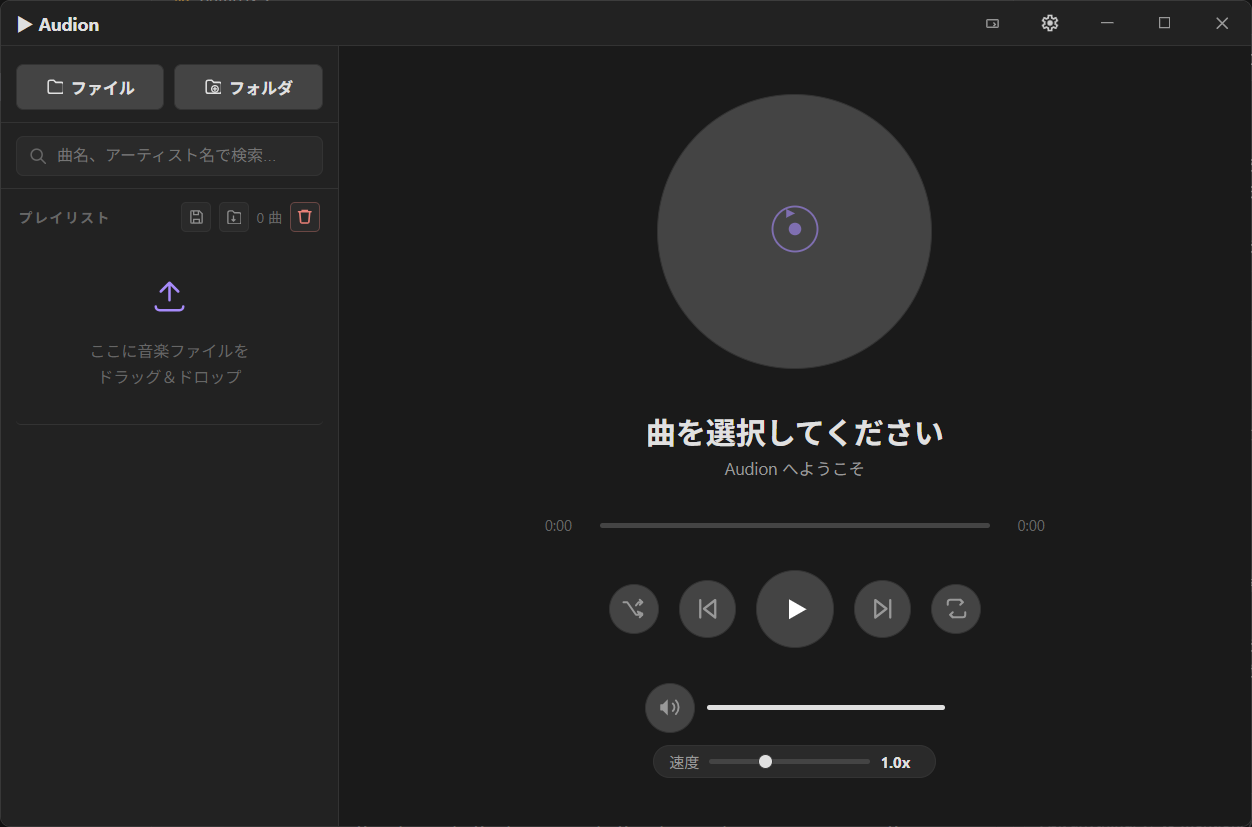
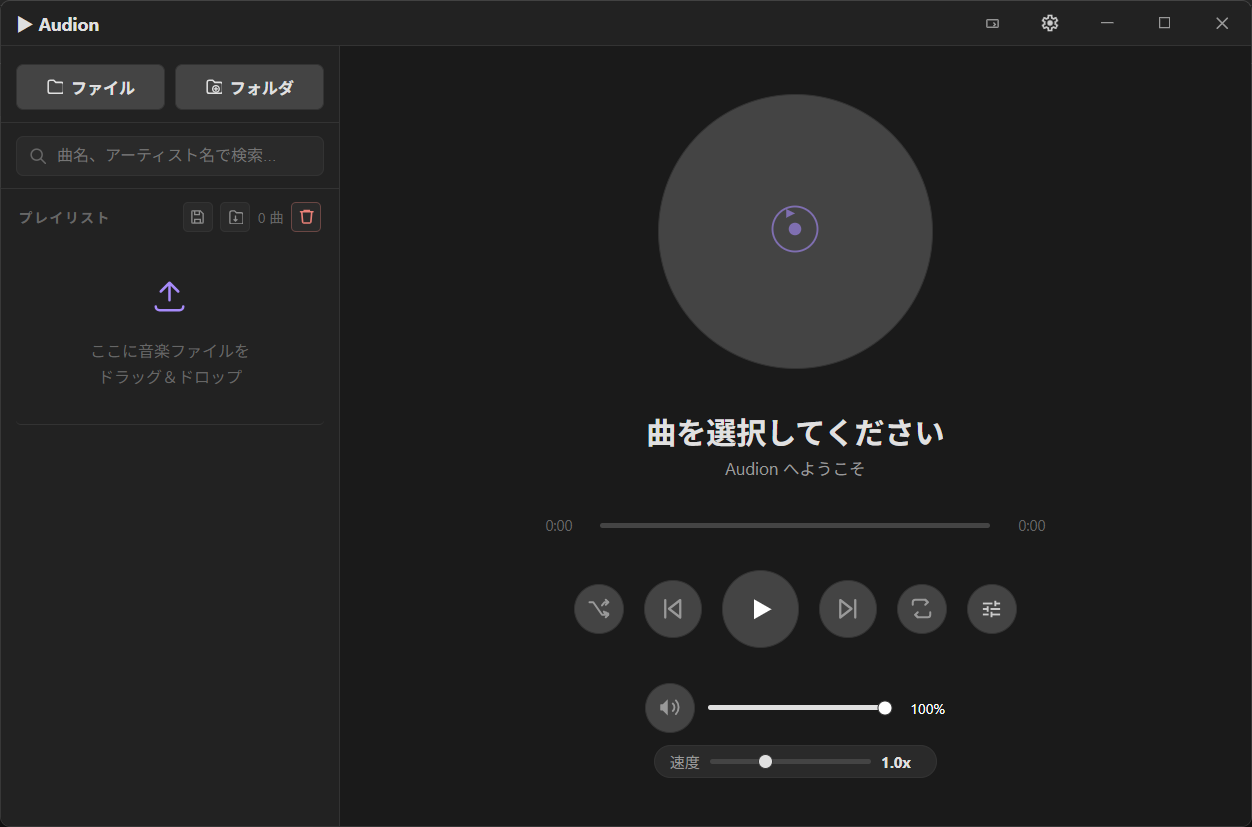
READMEを更新

diff --git a/README.md b/README.md
@@ -1,7 +1,7 @@
 # Audion
 
 <div align="center">
-  <img src="img\app_icon.jpg" width="128" height="128" alt="Audion Icon">
+  <img src="img/app_icon.jpg" width="128" height="128" alt="Audion Icon">
   <br>
   <p><strong>Tauri Base Music Player</strong></p>
 
@@ -13,59 +13,79 @@
   <br>
   ![Downloads (Latest)](https://img.shields.io/github/downloads/sagami121/Audion/latest/total?style=for-the-badge&color=8A2BE2&label=latest%20downloads)
   ![Downloads (Total)](https://img.shields.io/github/downloads/sagami121/Audion/total?style=for-the-badge&color=9370DB&label=total%20downloads)
-  
 </div>
 
 ---
 
-## 本ソフトのスクリーンショット
+## スクリーンショット
+
 <div align="center">
   <h3>メイン画面</h3>
-  <img src="docs/1.png" width="800" alt="ホーム" style="border-radius: 8px; box-shadow: 0 4px 12px rgba(0,0,0,0.15); margin-bottom: 20px;">
+  <img src="docs/1.png" width="800" alt="メイン画面" style="border-radius: 8px; box-shadow: 0 4px 12px rgba(0,0,0,0.15); margin-bottom: 20px;">
   <br>
-  
+
   <h3>設定画面</h3>
-  <img src="docs/2.png" width="400" alt="設定" style="border-radius: 8px; box-shadow: 0 4px 12px rgba(0,0,0,0.15); margin-bottom: 20px;">
+  <img src="docs/2.png" width="400" alt="設定画面" style="border-radius: 8px; box-shadow: 0 4px 12px rgba(0,0,0,0.15); margin-bottom: 20px;">
   <br>
-  
+
   <h3>フィードバック画面</h3>
-  <img src="docs/3.png" width="400" alt="フィードバック" style="border-radius: 8px; box-shadow: 0 4px 12px rgba(0,0,0,0.15); margin-bottom: 20px;">
+  <img src="docs/3.png" width="400" alt="フィードバック画面" style="border-radius: 8px; box-shadow: 0 4px 12px rgba(0,0,0,0.15); margin-bottom: 20px;">
+
+  <h3>イコライザー</h3>
+  <img src="docs/4.png" width="400" alt="イコライザー" style="border-radius: 8px; box-shadow: 0 4px 12px rgba(0,0,0,0.15); margin-bottom: 20px;">
+
+  <h3>コンプレッサー</h3>
+  <img src="docs/5.png" width="400" alt="コンプレッサー" style="border-radius: 8px; box-shadow: 0 4px 12px rgba(0,0,0,0.15); margin-bottom: 20px;">
+
+  <h3>アプリの更新通知</h3>
+  <img src="docs/6.png" width="400" alt="アプリの更新通知" style="border-radius: 8px; box-shadow: 0 4px 12px rgba(0,0,0,0.15); margin-bottom: 20px;">
 </div>
 
 ---
-# Audionについて
--   **幅広いフォーマット対応**:
-    <p>
-      <img src="https://img.shields.io/badge/MP3-444?style=flat-square">
-      <img src="https://img.shields.io/badge/WAV-444?style=flat-square">
-      <img src="https://img.shields.io/badge/FLAC-444?style=flat-square">
-      <img src="https://img.shields.io/badge/M4A-444?style=flat-square">
-      <img src="https://img.shields.io/badge/OGG-444?style=flat-square">
-      <img src="https://img.shields.io/badge/OPUS-444?style=flat-square">
-      <img src="https://img.shields.io/badge/AIFF-444?style=flat-square">
-    </p>
+
+## Audionについて
+
+Audionは、Tauri v2 + Reactで作られたWindows向けの軽量音楽プレイヤーです。
+
+- 対応フォーマット:
+  <p>
+    <img src="https://img.shields.io/badge/MP3-444?style=flat-square">
+    <img src="https://img.shields.io/badge/WAV-444?style=flat-square">
+    <img src="https://img.shields.io/badge/FLAC-444?style=flat-square">
+    <img src="https://img.shields.io/badge/M4A-444?style=flat-square">
+    <img src="https://img.shields.io/badge/OGG-444?style=flat-square">
+    <img src="https://img.shields.io/badge/OPUS-444?style=flat-square">
+    <img src="https://img.shields.io/badge/AIFF-444?style=flat-square">
+  </p>
+- インストーラー配布: `.msi`
+- ライセンス: [MIT License](LICENSE)
+
 ---
 
 ## セットアップ
 
-### 開発環境の準備
-1.  [Rust](https://www.rust-lang.org/ja/tools/install) をインストール
-2.  [Node.js](https://nodejs.org/) をインストール
-3.  プロジェクトをクローンまたはダウンロード
+### 前提環境
 
-### 実行・ビルド
+1. [Rust](https://www.rust-lang.org/ja/tools/install) をインストール
+2. [Node.js](https://nodejs.org/) をインストール
+3. このリポジトリをクローン
+
+### 開発・ビルド
+
 ```bash
-# 依存関係のインストール
+# 依存関係をインストール
 npm install
 
 # 開発モードで起動
 npm run tauri dev
 
-# インストーラー (.msi) の作成
+# 本番ビルド (.msi) を作成
 npm run tauri build
 ```
 
 ---
 
-## ライセンス
-本ソフトウェアは [MIT License](LICENSE)で公開されています。
+## リリース
+
+- 最新版: [GitHub Releases](https://github.com/sagami121/Audion/releases)
+- 変更履歴: [Changelog.txt](Changelog.txt)
